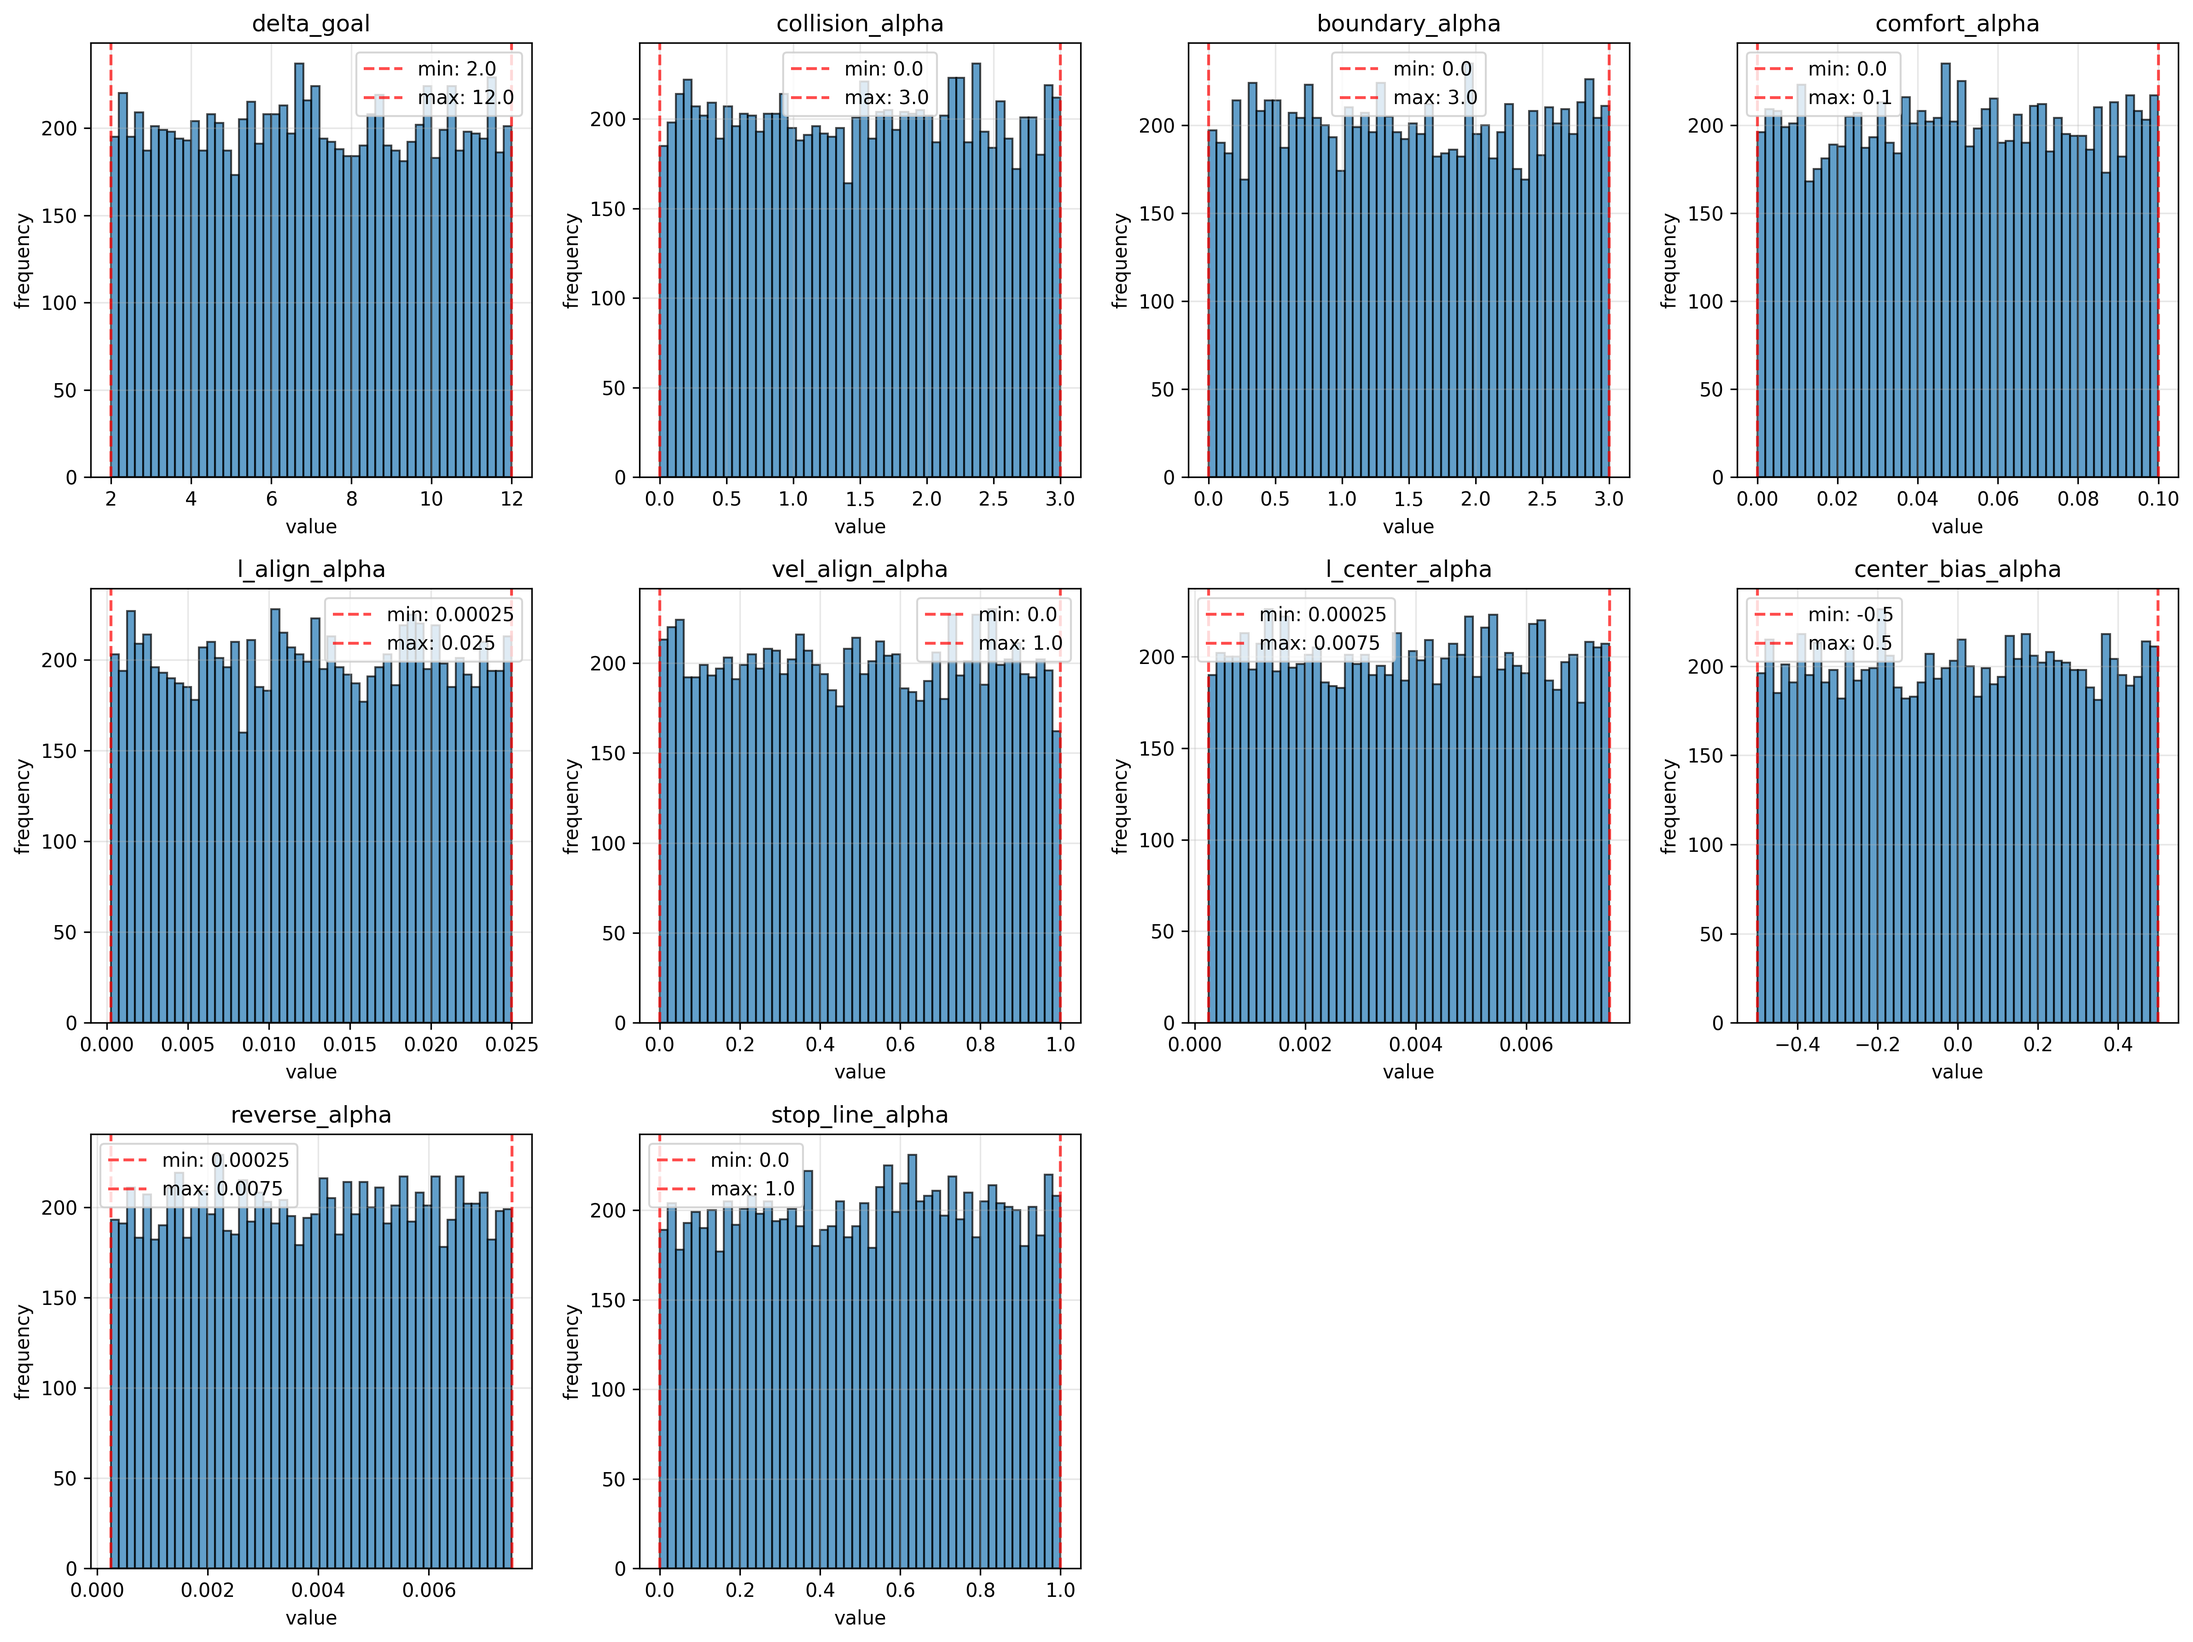
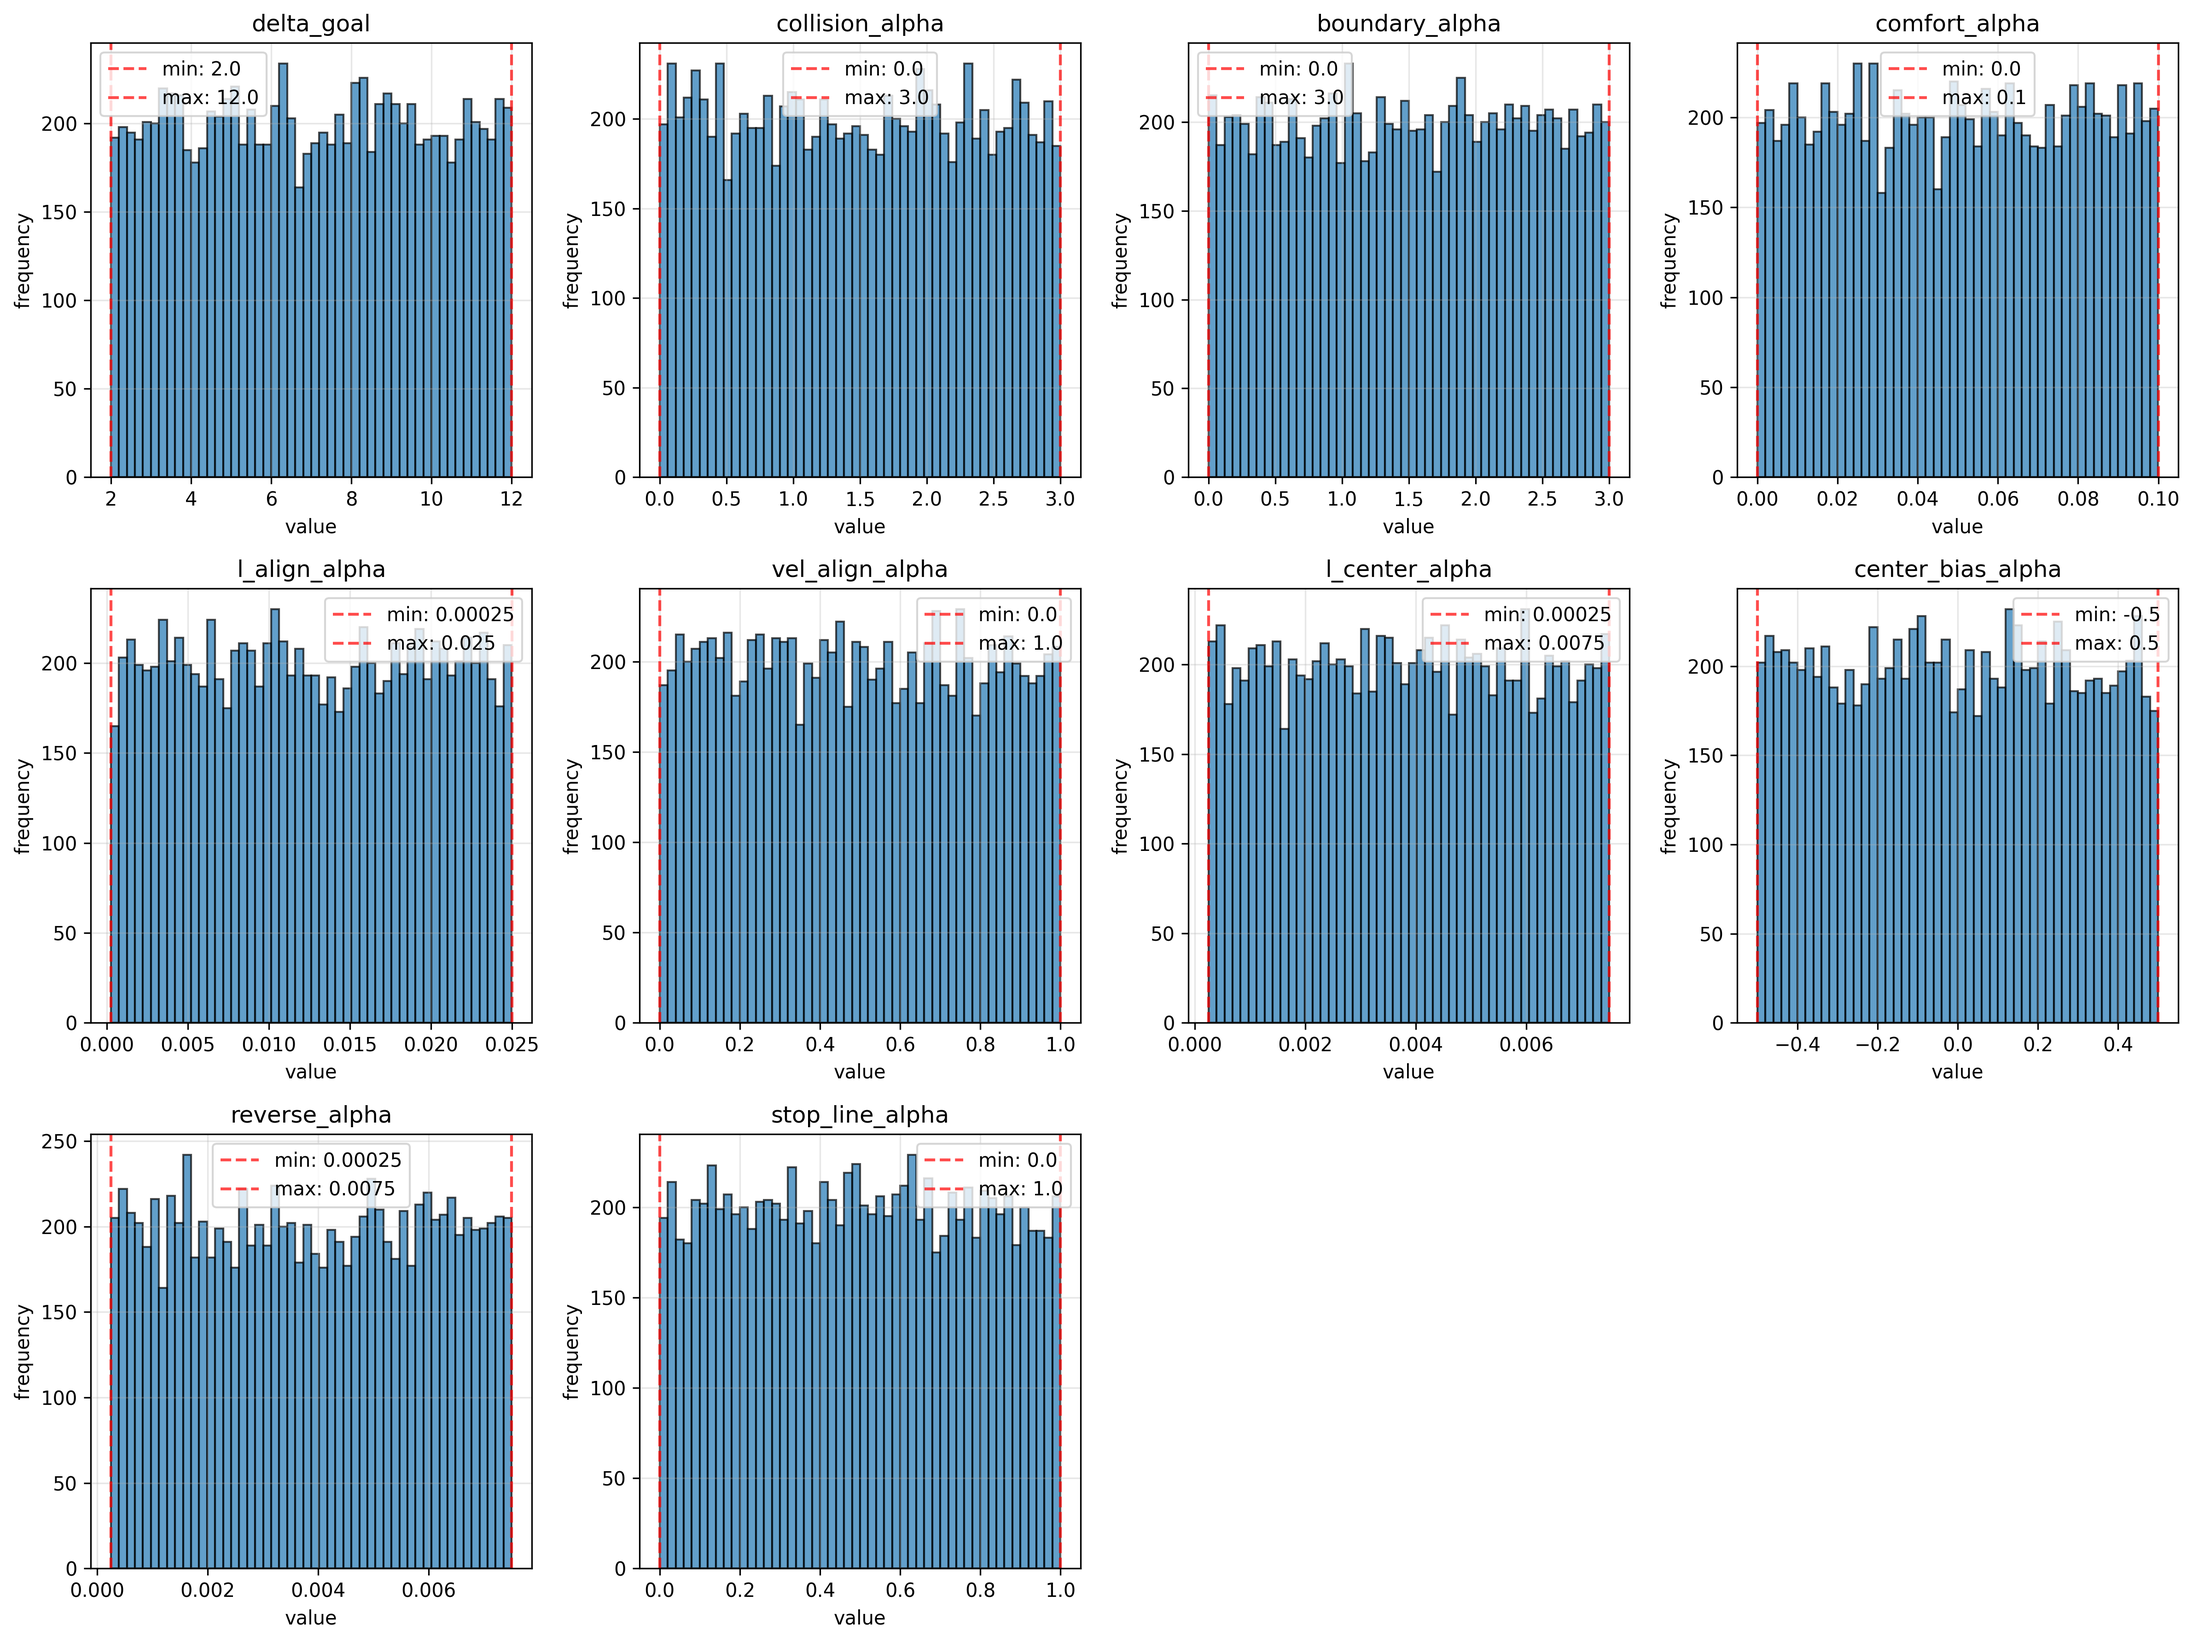
对readme做了一些调整

diff --git a/simulator/randomize_components.py b/simulator/randomize_components.py
@@ -319,7 +319,6 @@ class RewardParameterSampler:
         
         return torch.stack(reward_coef_list, dim=-1)  # (B, M, 10)
 
-
 class VehicleParameterSampler:
     """
     批量车辆参数采样器类，用于world_init中多辆车的批量采样。
@@ -416,9 +415,12 @@ if __name__ == "__main__":
             # 采样所有参数
             sampled_params = sampler.sample_all_parameters()
             
-            # 存储每个参数的值
-            for param_name, param_value in sampled_params.items():
-                all_samples[param_name].append(param_value.item())
+            # 存储每个参数的值 (sampled_params 是形状为 (1, 1, 10) 的张量)
+            param_names = ['delta_goal', 'collision_alpha', 'boundary_alpha', 'comfort_alpha', 
+                          'l_align_alpha', 'vel_align_alpha', 'l_center_alpha', 'center_bias_alpha', 
+                          'reverse_alpha', 'stop_line_alpha']
+            for j, param_name in enumerate(param_names):
+                all_samples[param_name].append(sampled_params[0, 0, j].item())
         
         # 计算每个参数的统计信息
         for param_name, values in all_samples.items():
@@ -429,7 +431,10 @@ if __name__ == "__main__":
             max_val = np.max(values)
             
             print(f"\n{param_name}:")
-            print(f"  理论范围: [{sampler.reward_config.get(f'{param_name}_min', 'N/A')}, {sampler.reward_config.get(f'{param_name}_max', 'N/A')}]")
+            # 获取理论范围
+            min_range = getattr(sampler, f'{param_name}_min', 'N/A')
+            max_range = getattr(sampler, f'{param_name}_max', 'N/A')
+            print(f"  理论范围: [{min_range}, {max_range}]")
             print(f"  实际范围: [{min_val:.6f}, {max_val:.6f}]")
             print(f"  均值: {mean_val:.6f}")
             print(f"  标准差: {std_val:.6f}")
@@ -454,8 +459,8 @@ if __name__ == "__main__":
                     axes[i].set_ylabel('frequency')
                     
                     # 添加理论范围线
-                    min_range = sampler.reward_config.get(f'{param_name}_min', None)
-                    max_range = sampler.reward_config.get(f'{param_name}_max', None)
+                    min_range = getattr(sampler, f'{param_name}_min', None)
+                    max_range = getattr(sampler, f'{param_name}_max', None)
                     if min_range is not None:
                         axes[i].axvline(min_range, color='red', linestyle='--', alpha=0.7, label=f'min: {min_range}')
                     if max_range is not None:
@@ -468,9 +473,11 @@ if __name__ == "__main__":
             for i in range(len(param_names), len(axes)):
                 axes[i].set_visible(False)
             
+            # 确保 images 目录存在
+            os.makedirs('./images', exist_ok=True)
             plt.tight_layout()
-            plt.savefig('reward_parameter_distributions.png', dpi=300, bbox_inches='tight')
-            print(f"\n分布图已保存为 'reward_parameter_distributions.png'")
+            plt.savefig('./images/reward_parameter_distributions.png', dpi=300, bbox_inches='tight')
+            print(f"\n分布图已保存为 './images/reward_parameter_distributions.png'")
             
             # 显示图形
             plt.show()
@@ -485,8 +492,8 @@ if __name__ == "__main__":
         print("="*60)
         for param_name, values in all_samples.items():
             values = np.array(values)
-            min_range = sampler.reward_config.get(f'{param_name}_min', None)
-            max_range = sampler.reward_config.get(f'{param_name}_max', None)
+            min_range = getattr(sampler, f'{param_name}_min', None)
+            max_range = getattr(sampler, f'{param_name}_max', None)
             
             if min_range is not None and max_range is not None:
                 # 计算理论均值和标准差
@@ -501,7 +508,8 @@ if __name__ == "__main__":
                 print(f"  理论标准差: {theoretical_std:.6f}, 实际标准差: {actual_std:.6f}")
                 print(f"  均值误差: {abs(theoretical_mean - actual_mean):.6f}")
                 print(f"  标准差误差: {abs(theoretical_std - actual_std):.6f}")
-                print("\nRewardParameterSampler 测试完成！")
+        
+        print("\nRewardParameterSampler 测试完成！")
     
     def test_driving_style_sampler():
         """测试 DrivingStyleSampler 类的参数采样功能"""
@@ -584,7 +592,7 @@ if __name__ == "__main__":
             
             # 测试批量采样
             print("测试批量车辆参数采样...")
-            batch_size = 1000000
+            batch_size = 100000  # 减少批量大小以避免内存问题
             vehicle_params = sampler.sample_batch_vehicle_parameters(batch_size)
             
             # 打印参数统计信息
@@ -665,9 +673,13 @@ if __name__ == "__main__":
             axes[2].axvline(wheelbase_max, color='red', linestyle='--', alpha=0.8, label=f'max: {wheelbase_max:.3f}')
             axes[2].legend()
             
+            # 确保 images 目录存在
+            os.makedirs('./images', exist_ok=True)
+            
             plt.tight_layout()
+            plt.savefig('./images/vehicle_parameter_distributions.png', dpi=300, bbox_inches='tight')
+            print(f"\n分布图已保存为 './images/vehicle_parameter_distributions.png'")
             plt.show()
-
 
             print("\n✓ VehicleParameterSampler 测试完成！")
 
@@ -683,7 +695,7 @@ if __name__ == "__main__":
         # test_reward_parameter_sampler()
 
         # 测试 VehicleParameterSampler
-        # test_vehicle_parameter_sampler()
+        #  test_vehicle_parameter_sampler()
 
         print("\n所有测试完成！")
     main()

diff --git a/README.md b/README.md
@@ -1,4 +1,3 @@
-
 ![Selfrace Logo](https://github.com/HongfeiWan/Selfrace/blob/main/images/Logo.png)
 
 Selfrace is a training-tool and simulator for self-play auto-driving.
@@ -29,9 +28,15 @@ The wiki contains comprehensive information about:
 ## Quick Start
 
 1. Follow the installation instructions above
-2. Check out the [Quick Start Guide](https://github.com/HongfeiWan/Selfrace/wiki/Quick-Start) in our wiki
-3. Explore the [Examples](https://github.com/HongfeiWan/Selfrace/wiki/Examples) section for practical usage
+```bash
+# Training
+cd Selfrace/training
+python ddppo.py
+```
 
 ## License
 
 This project is licensed under the GNU General Public License v3.0 License - see the [LICENSE](LICENSE) file for details.
+
+## References
+- [Self-Play Reinforcement Learning for Autonomous Driving](https://arxiv.org/abs/2502.03349)
